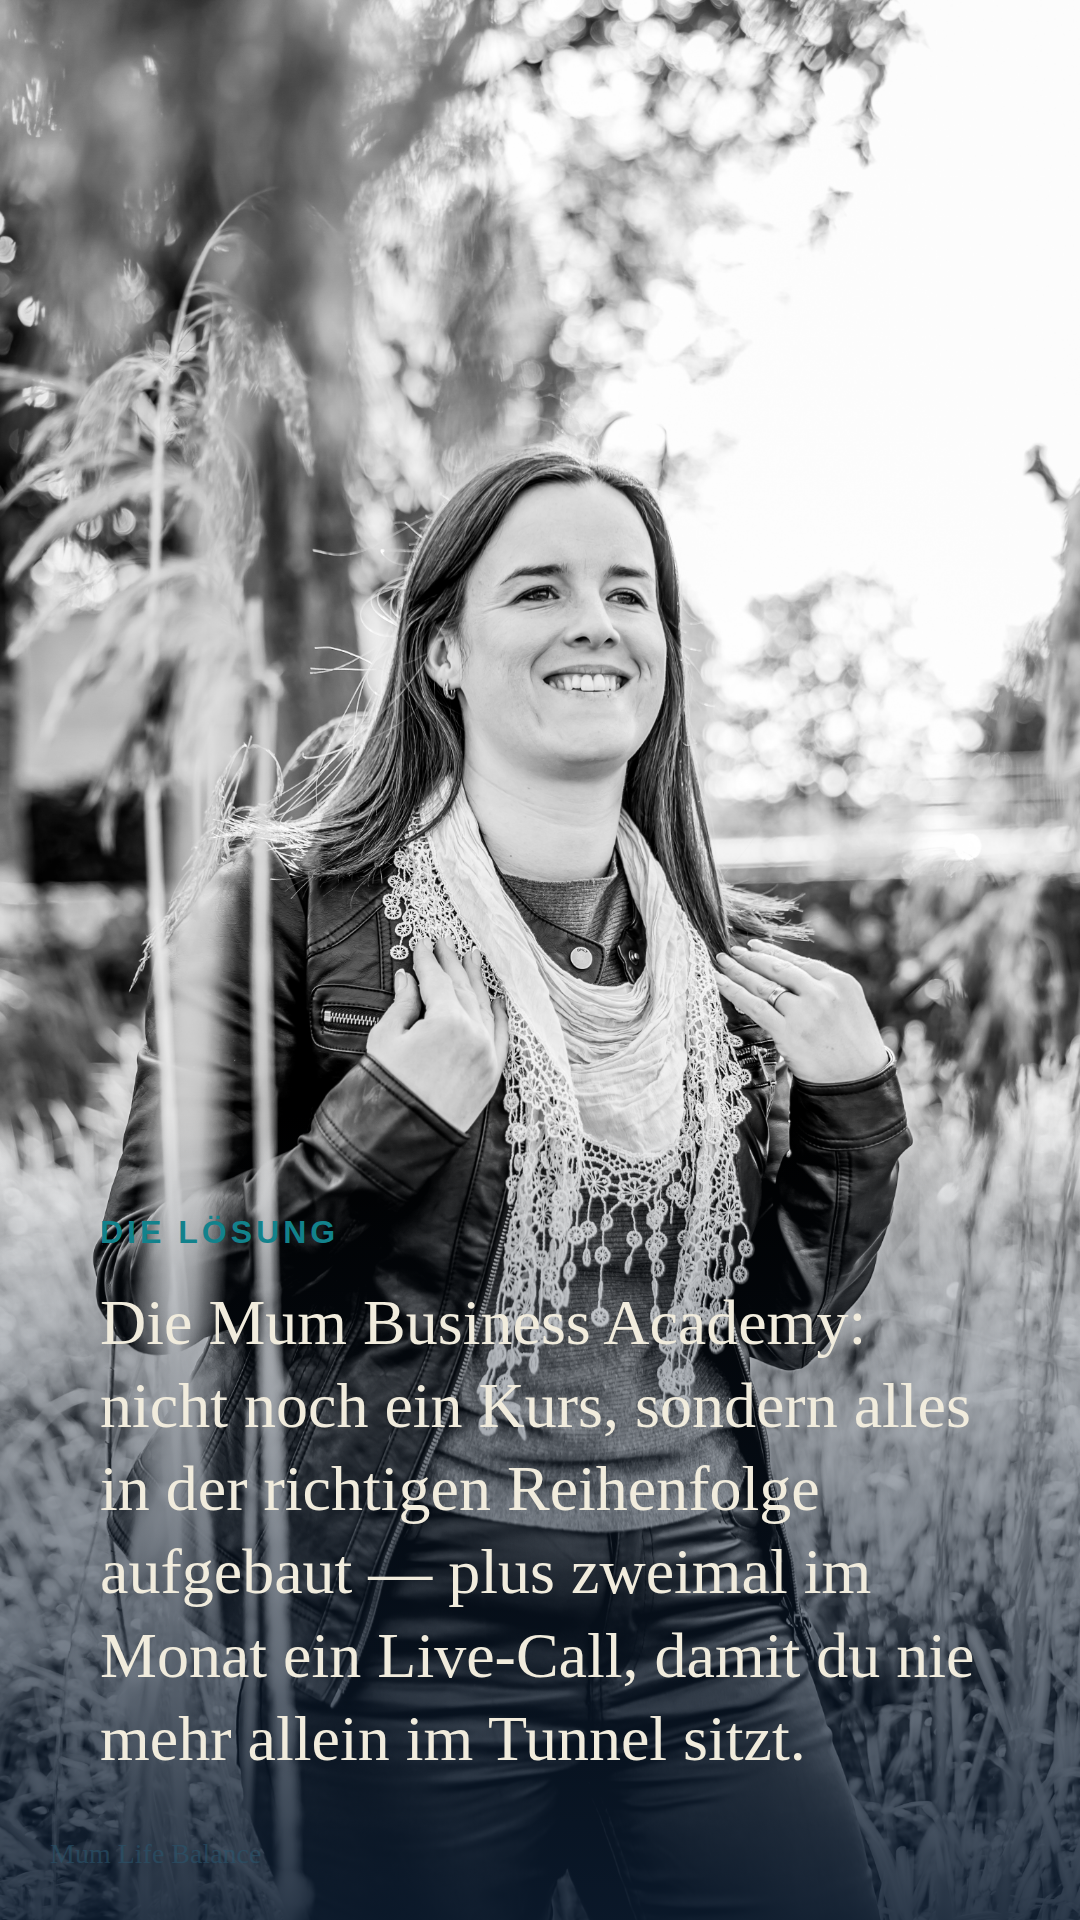
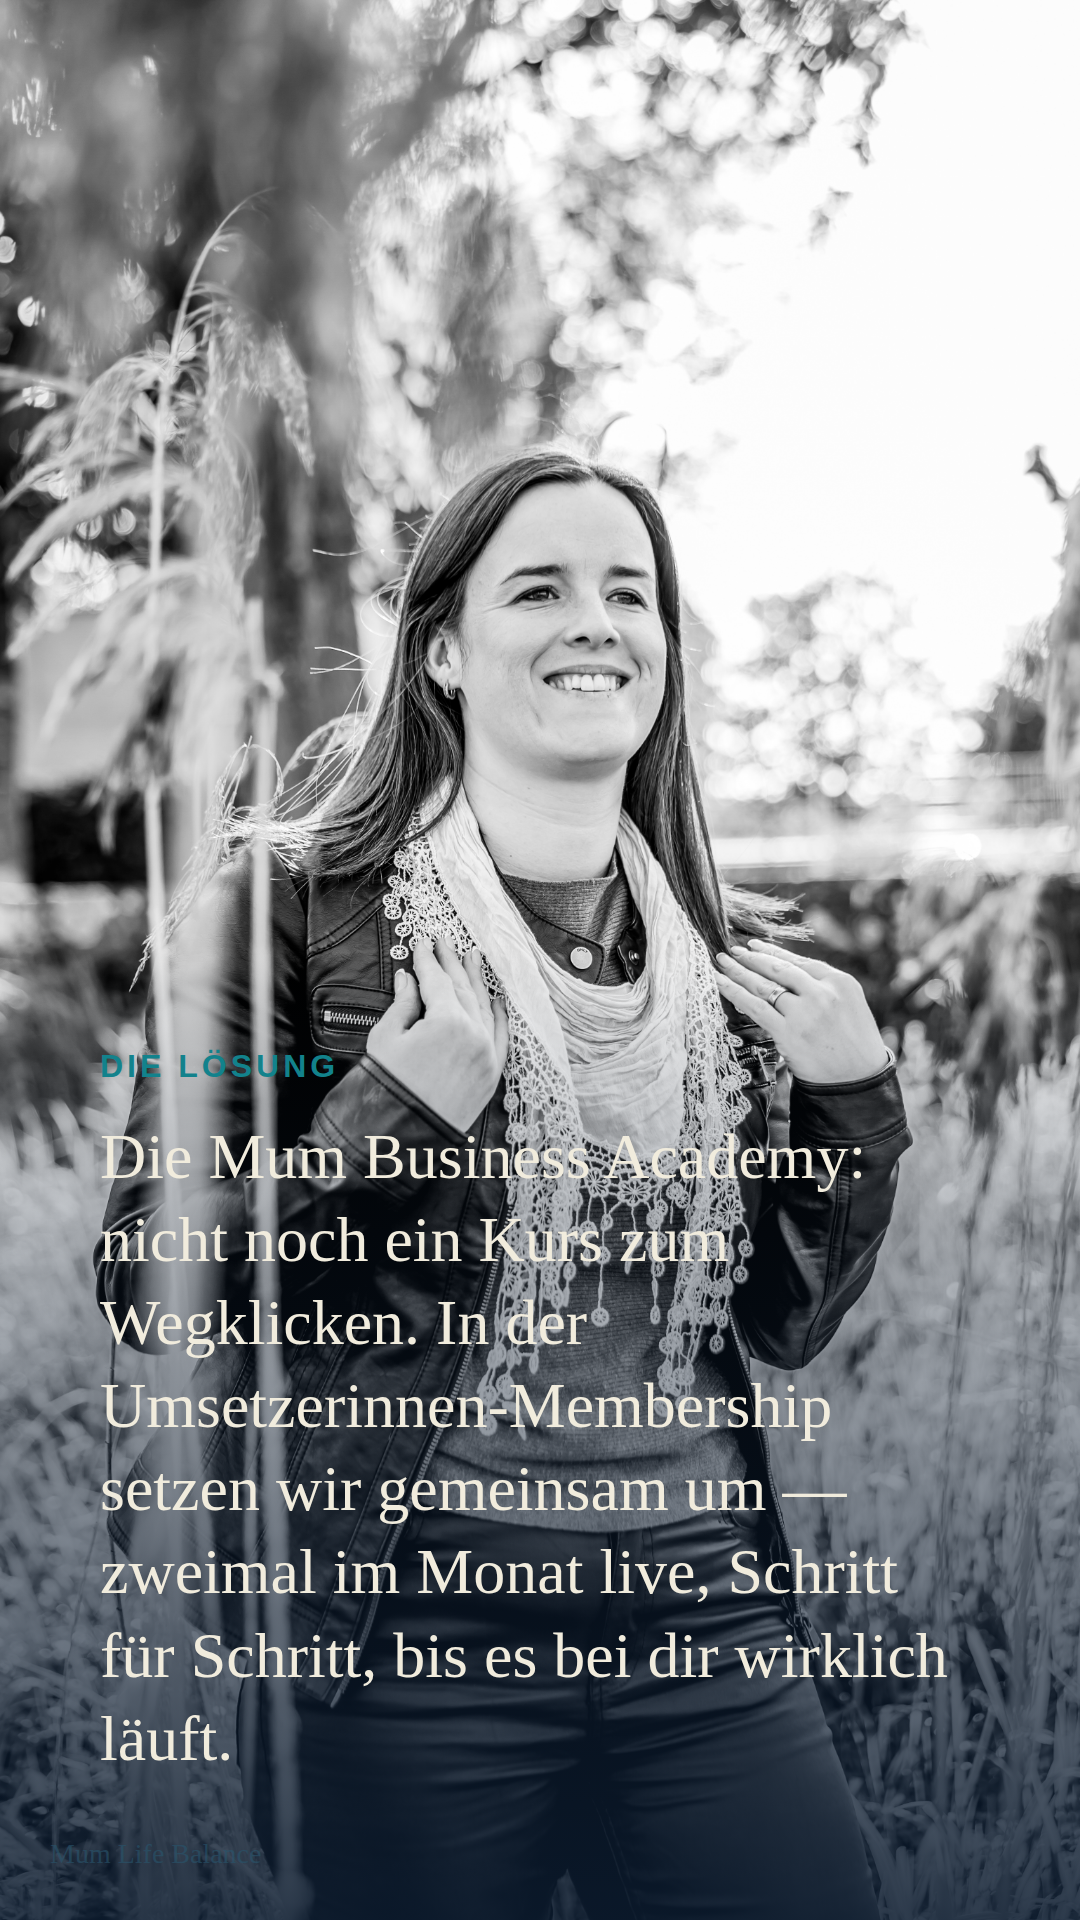
Story 14.7. überarbeitet: Patricia-Selfie auf Slide 1, Umsetzerinnen-Membership auf Slide 7, Link-Sticker-CTA auf Slide 8
Claude-Session: https://claude.ai/code/session_016Ugt1EDauwNXaA4KysL2Ve

diff --git a/outputs/stories/2026-07-14-tagesplan-mentoring-kein-5000-module-programm/slides.html b/outputs/stories/2026-07-14-tagesplan-mentoring-kein-5000-module-programm/slides.html
@@ -9,13 +9,14 @@
 
 <div class="grid">
 
-  <!-- SLIDE 1: BÄM-HOOK -->
+  <!-- SLIDE 1: BÄM-HOOK (Vollbild-Selfie + Verlauf unten) -->
   <div class="stage-wrap">
     <div class="stage">
-      <div class="slide template-hook">
-        <div class="content">
-          <div class="hook-eyebrow">Unpopuläre Meinung</div>
-          <div class="hook-text">
+      <div class="slide template-bts">
+        <img class="bg" src="fotos/hook-selfie-garten.webp" alt="Patricia" style="object-position: center 18%;">
+        <div class="text-overlay" style="padding: 260px 90px 150px; background: linear-gradient(to top, rgba(12,28,48,0.92) 0%, rgba(12,28,48,0.80) 45%, rgba(12,28,48,0.0) 100%);">
+          <div class="label">Unpopuläre Meinung</div>
+          <div class="body" style="font-family:'Philosopher',serif; font-size:96px; font-weight:700; line-height:1.12;">
             Kauf dir bloss <span class="akzent">nicht</span> noch einen Kurs.
           </div>
         </div>
@@ -127,7 +128,7 @@
         <div class="text-overlay">
           <div class="label">Die Lösung</div>
           <div class="body">
-            Die Mum Business Academy: nicht noch ein Kurs, sondern alles in der richtigen Reihenfolge aufgebaut — plus zweimal im Monat ein Live-Call, damit du nie mehr allein im Tunnel sitzt.
+            Die Mum Business Academy: nicht noch ein Kurs zum Wegklicken. In der Umsetzerinnen-Membership setzen wir gemeinsam um — zweimal im Monat live, Schritt für Schritt, bis es bei dir wirklich läuft.
           </div>
         </div>
         <div class="brand-corner">Mum Life Balance</div>
@@ -144,9 +145,9 @@
           <div class="countdown-eyebrow">Cart offen bis So 27.7.</div>
           <div class="countdown-message">
             Zum Pioneer-Preis von <strong>997</strong> statt später 1347.<br>
-            Wenn du Struktur statt noch-ein-Kurs willst:
+            Alles drin — und wir setzen gemeinsam um.
           </div>
-          <div class="countdown-cta">Schreib mir „MBA“ · Link in Bio</div>
+          <div class="countdown-cta">👉 Tipp auf den Link</div>
         </div>
         <div class="brand-corner">Mum Life Balance</div>
       </div>

diff --git a/outputs/stories/2026-07-14-tagesplan-mentoring-kein-5000-module-programm/briefing.md b/outputs/stories/2026-07-14-tagesplan-mentoring-kein-5000-module-programm/briefing.md
@@ -15,10 +15,10 @@ tags: [content, story]
 
 ## Slides
 
-### Slide 1 — Hook (template-hook)
+### Slide 1 — Hook (template-bts, Vollbild-Selfie)
 - **Eyebrow:** Unpopuläre Meinung
 - **Hook:** „Kauf dir bloss **nicht** noch einen Kurs."
-- **Foto:** keins (clean creme, maximale BÄM-Wirkung)
+- **Foto:** `fotos/hook-selfie-garten.webp` (Patricias eigenes Handy-Foto, Garten, Petrol-Top) — Vollbild, Gesicht frei oben, Text im dunklen Verlauf unten
 - **Sticker:** keiner
 
 ### Slide 2 — Story (template-story) 🔁 FOTO-SWAP-KANDIDAT
@@ -48,13 +48,14 @@ tags: [content, story]
 
 ### Slide 7 — Lösung / MBA (template-bts) 🔁 FOTO-SWAP-KANDIDAT
 - **Label:** Die Lösung
-- **Body:** MBA = nicht noch ein Kurs, sondern alles in der richtigen Reihenfolge + 2× im Monat Live-Call, nie mehr allein im Tunnel.
+- **Body:** MBA = nicht noch ein Kurs zum Wegklicken. In der **Umsetzerinnen-Membership setzen wir gemeinsam um** — 2× im Monat live, Schritt für Schritt, bis es läuft. (Betont: nicht nur Theorie.)
 - **Foto (Base):** `fotos/loesung-selbstbewusst.jpg` (Shootingbild B&W, Gesicht frei) → durch Patricias eigenes Foto ersetzbar
 
 ### Slide 8 — CTA / Countdown (template-countdown)
 - **Eyebrow:** Cart offen bis So 27.7.
-- **Message:** Pioneer-Preis 997 statt später 1347. Wenn du Struktur statt noch-ein-Kurs willst:
-- **CTA:** Schreib mir „MBA" · Link in Bio
+- **Message:** Pioneer-Preis 997 statt später 1347. Alles drin — und wir setzen gemeinsam um.
+- **CTA:** 👉 Tipp auf den Link
+- **⚠ LINK-STICKER:** Patricia setzt einen **Instagram-Link-Sticker** auf diese Slide mit dem **echten MBA-Checkout-Link** (kein „Bio", kein Kommentar-Keyword). Link aus ThriveCart / active-funnels.json einsetzen.
 - **Sticker:** Countdown-Sticker auf So 27.7. 23:59 setzen
 
 ## CTA-Plan
